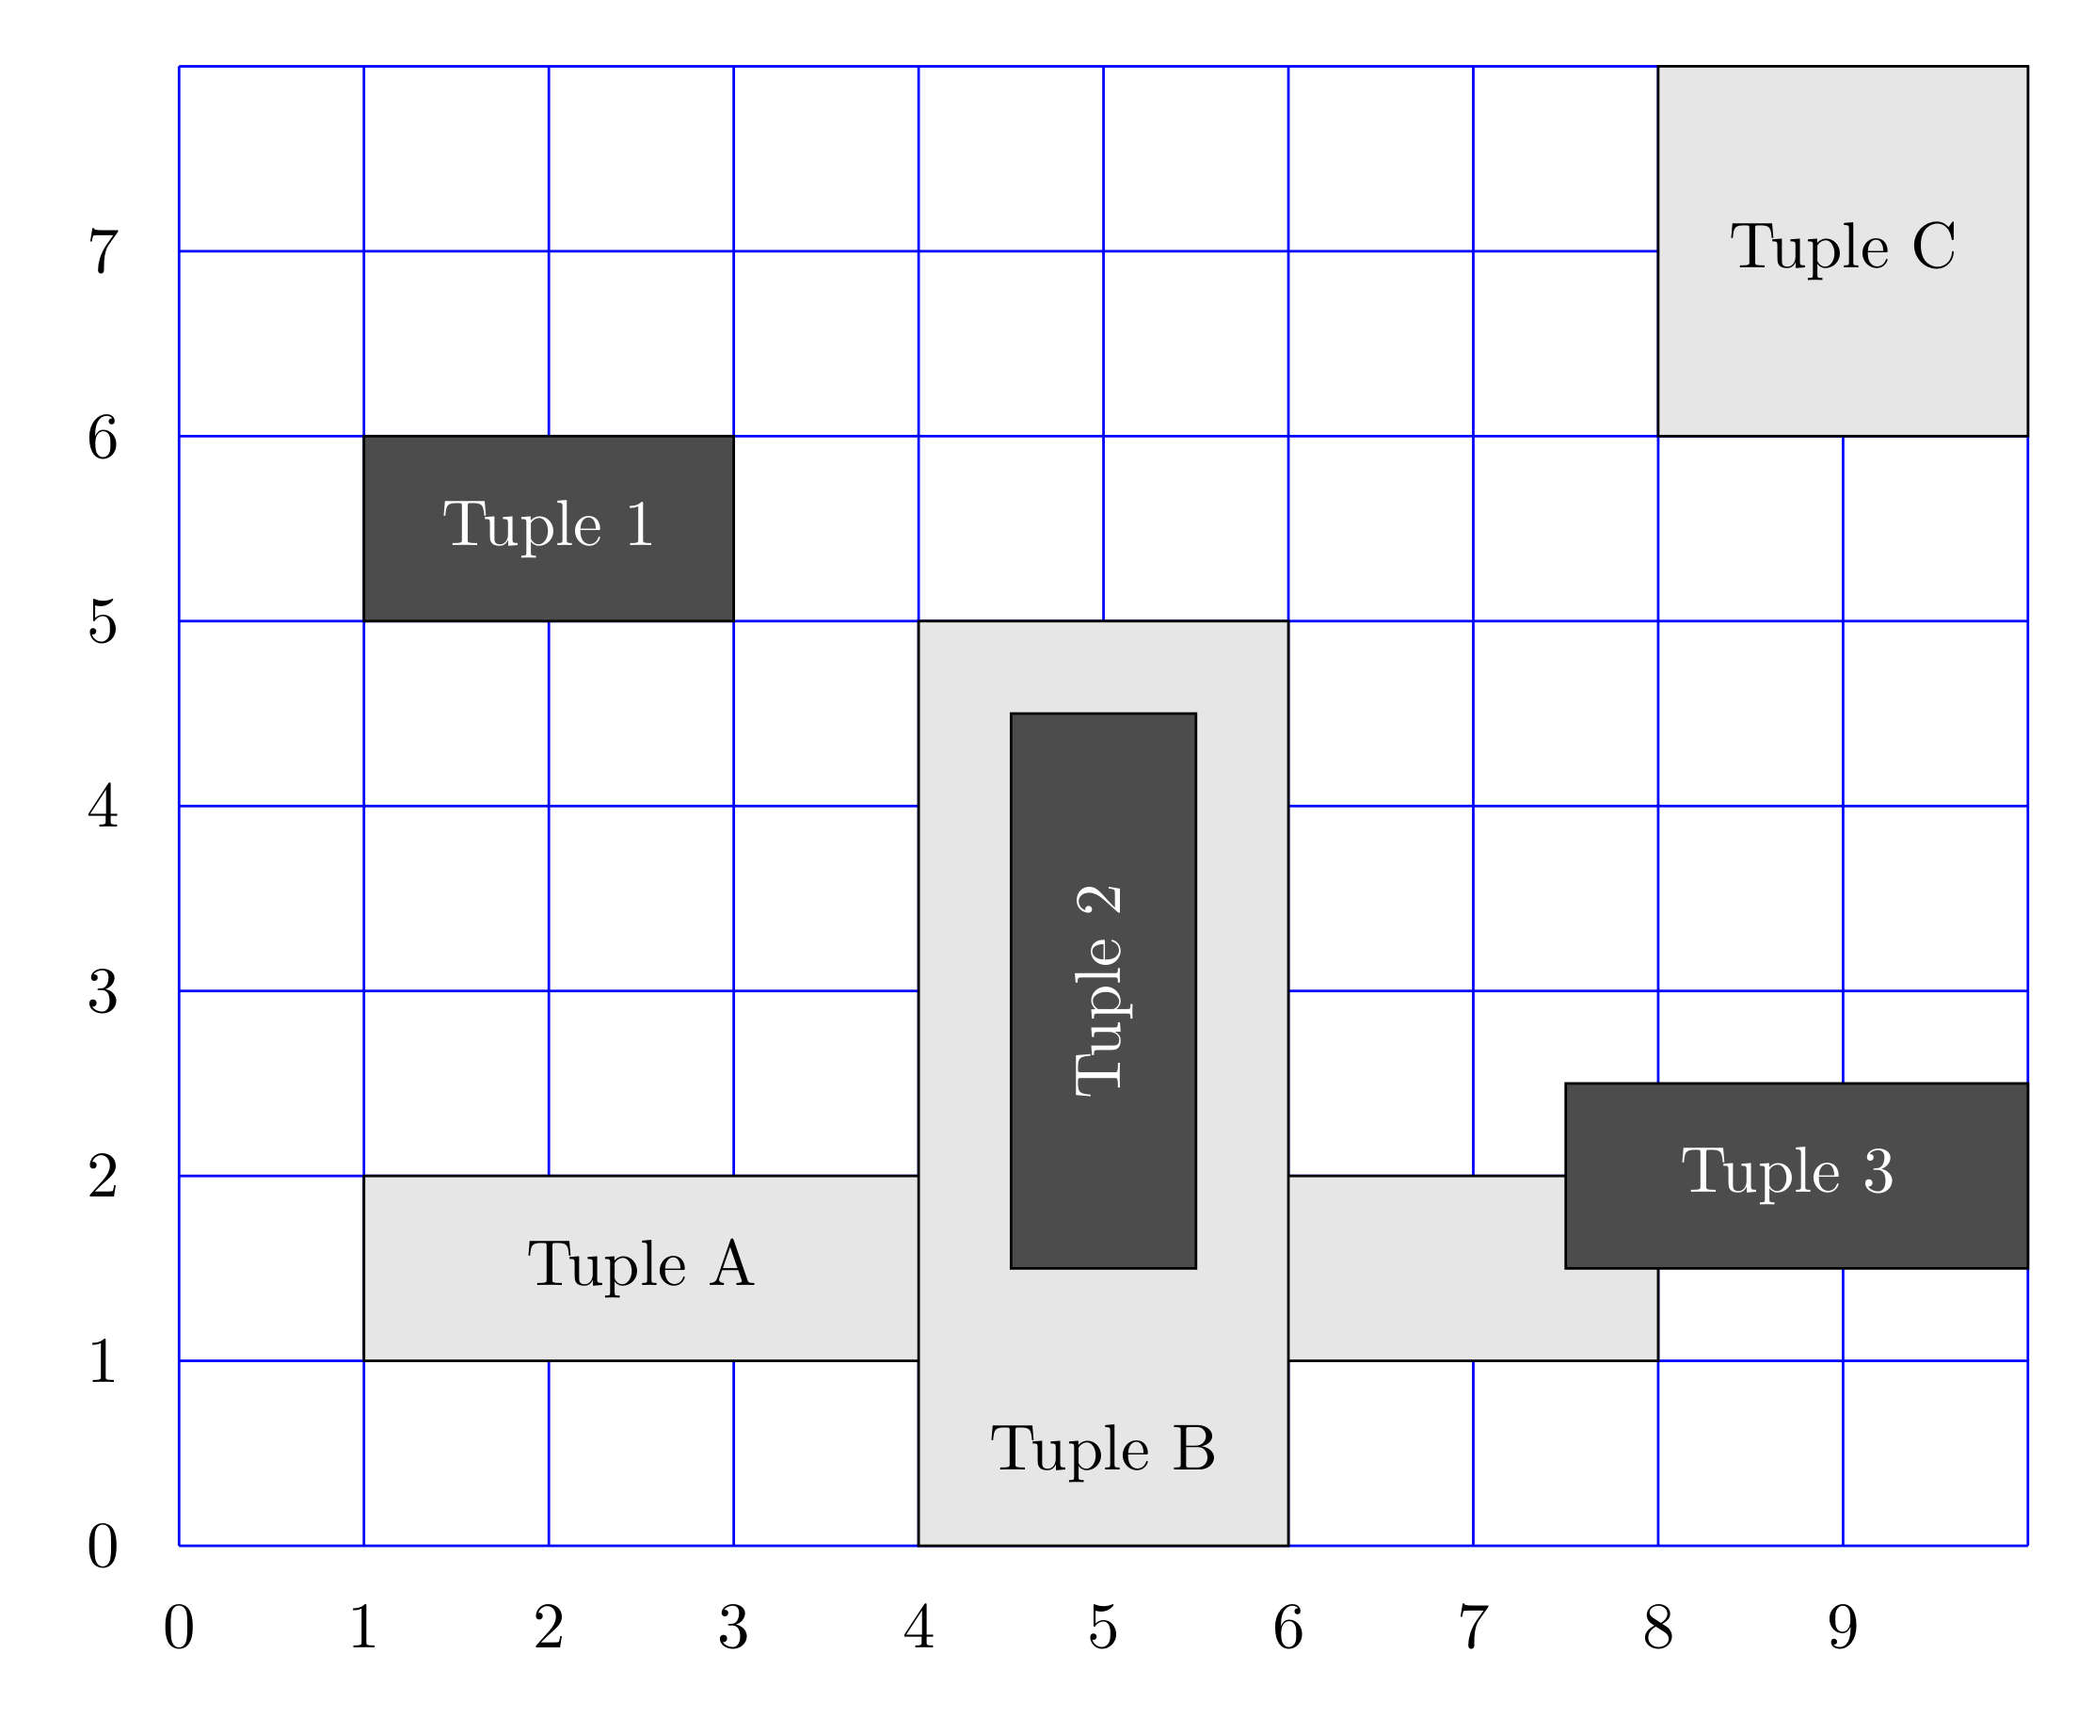
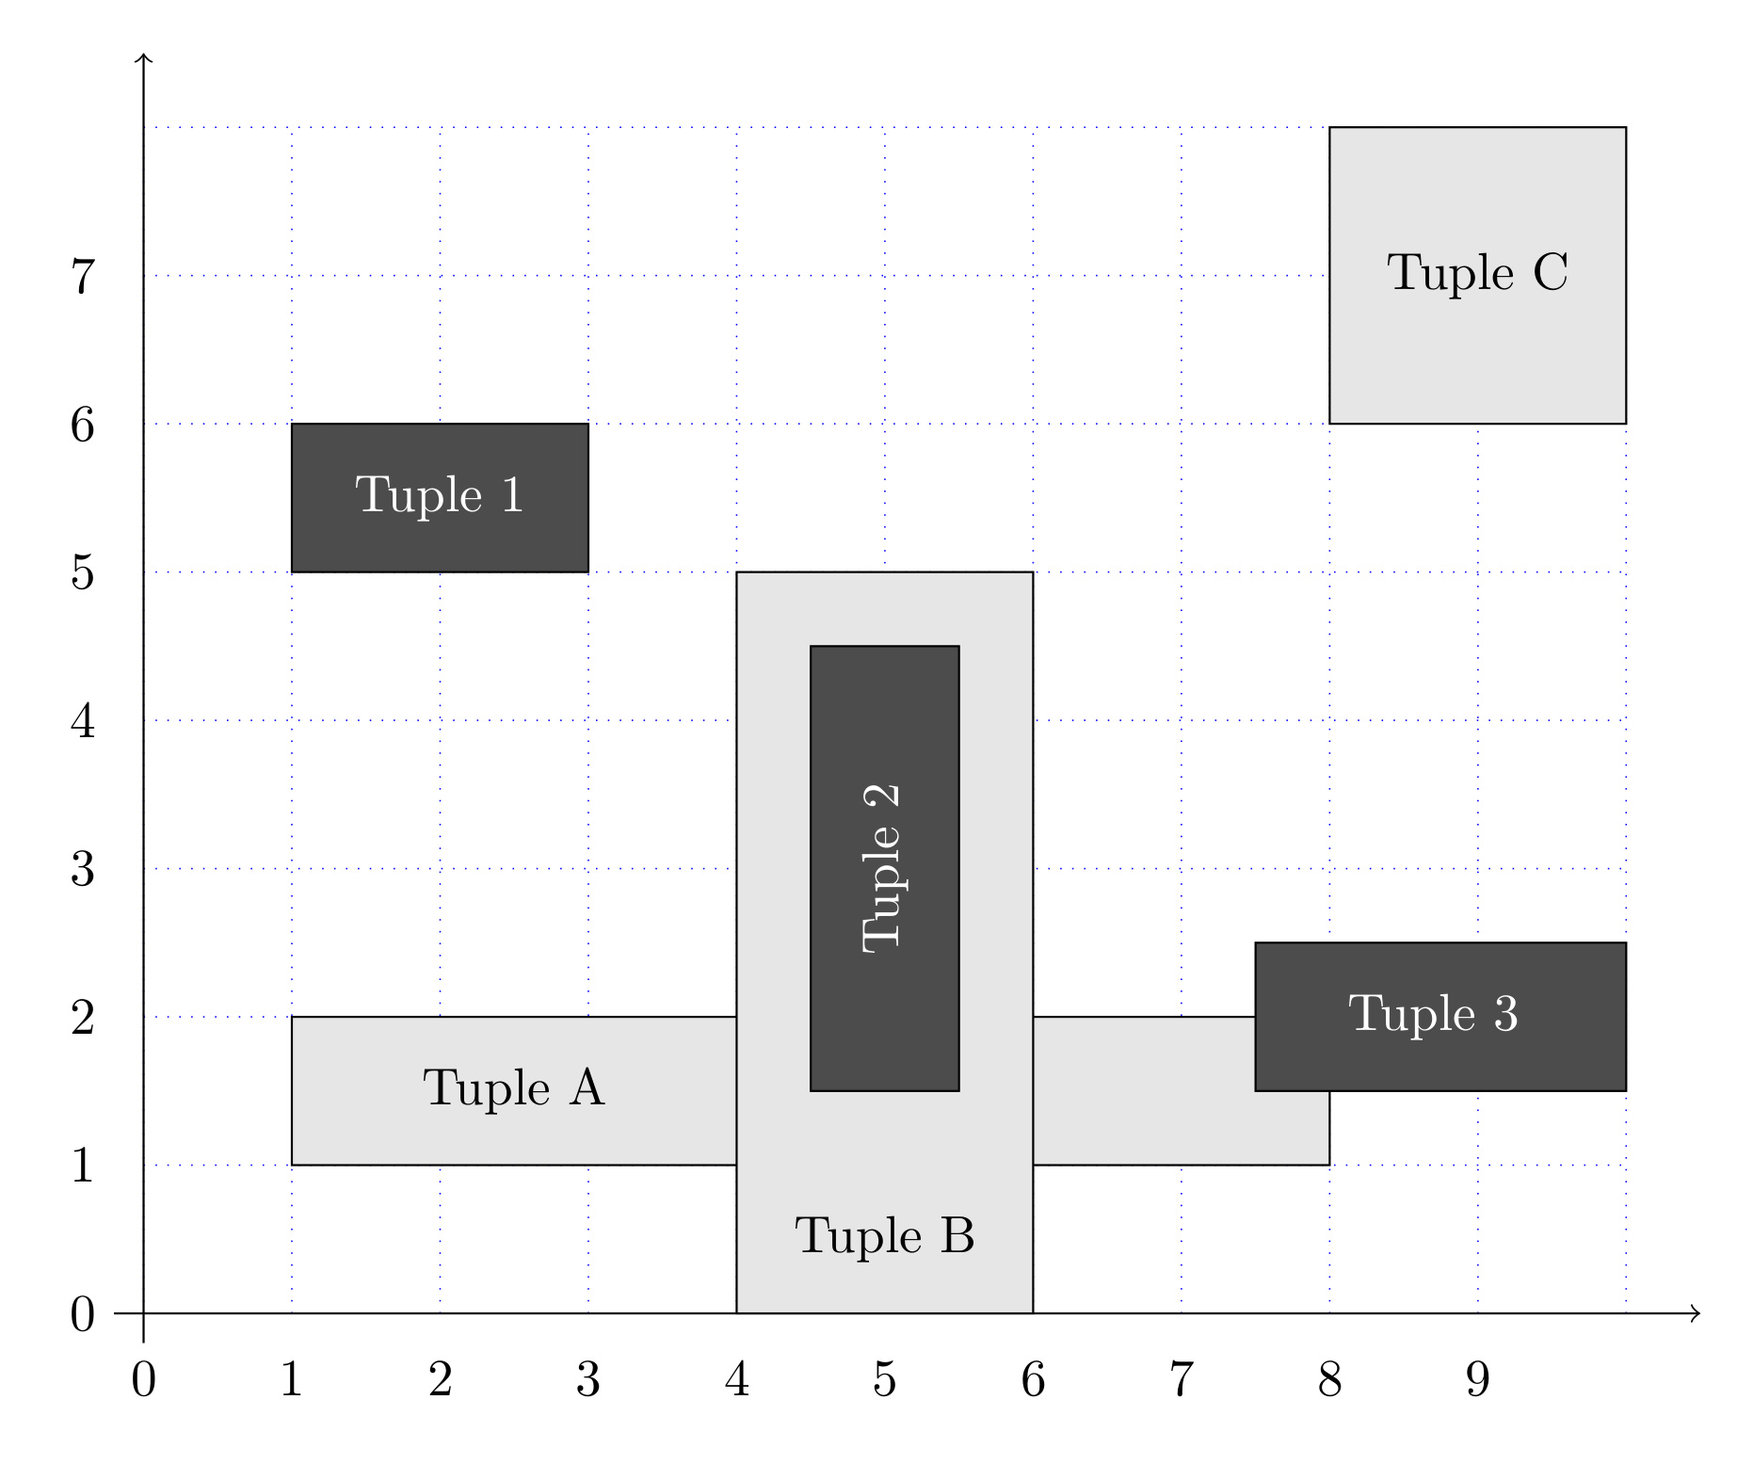
Changed image

diff --git a/docs/images/join_data.tex b/docs/images/join_data.tex
@@ -21,7 +21,10 @@
 \begin{document}
 \begin{tikzpicture}[scale=1, every node/.style={transform shape}]
 
-\draw [step=1.0,blue] (0,0) grid (10,8);
+\draw [step=1.0, blue, line width=0.1mm, dotted] (0,0) grid (10,8);
+\path[draw, ->] (-0.2,0) -- (10.5,0);
+\path[draw, ->] (0,-0.2) -- (0,8.5);
+
 \foreach \x in {0,1,2,3,4, 5, 6, 7, 8, 9}
  \node[anchor=north] at (\x,-0.2) {\x};
 \foreach \y in {0,1,2,3, 4, 5, 6, 7}
